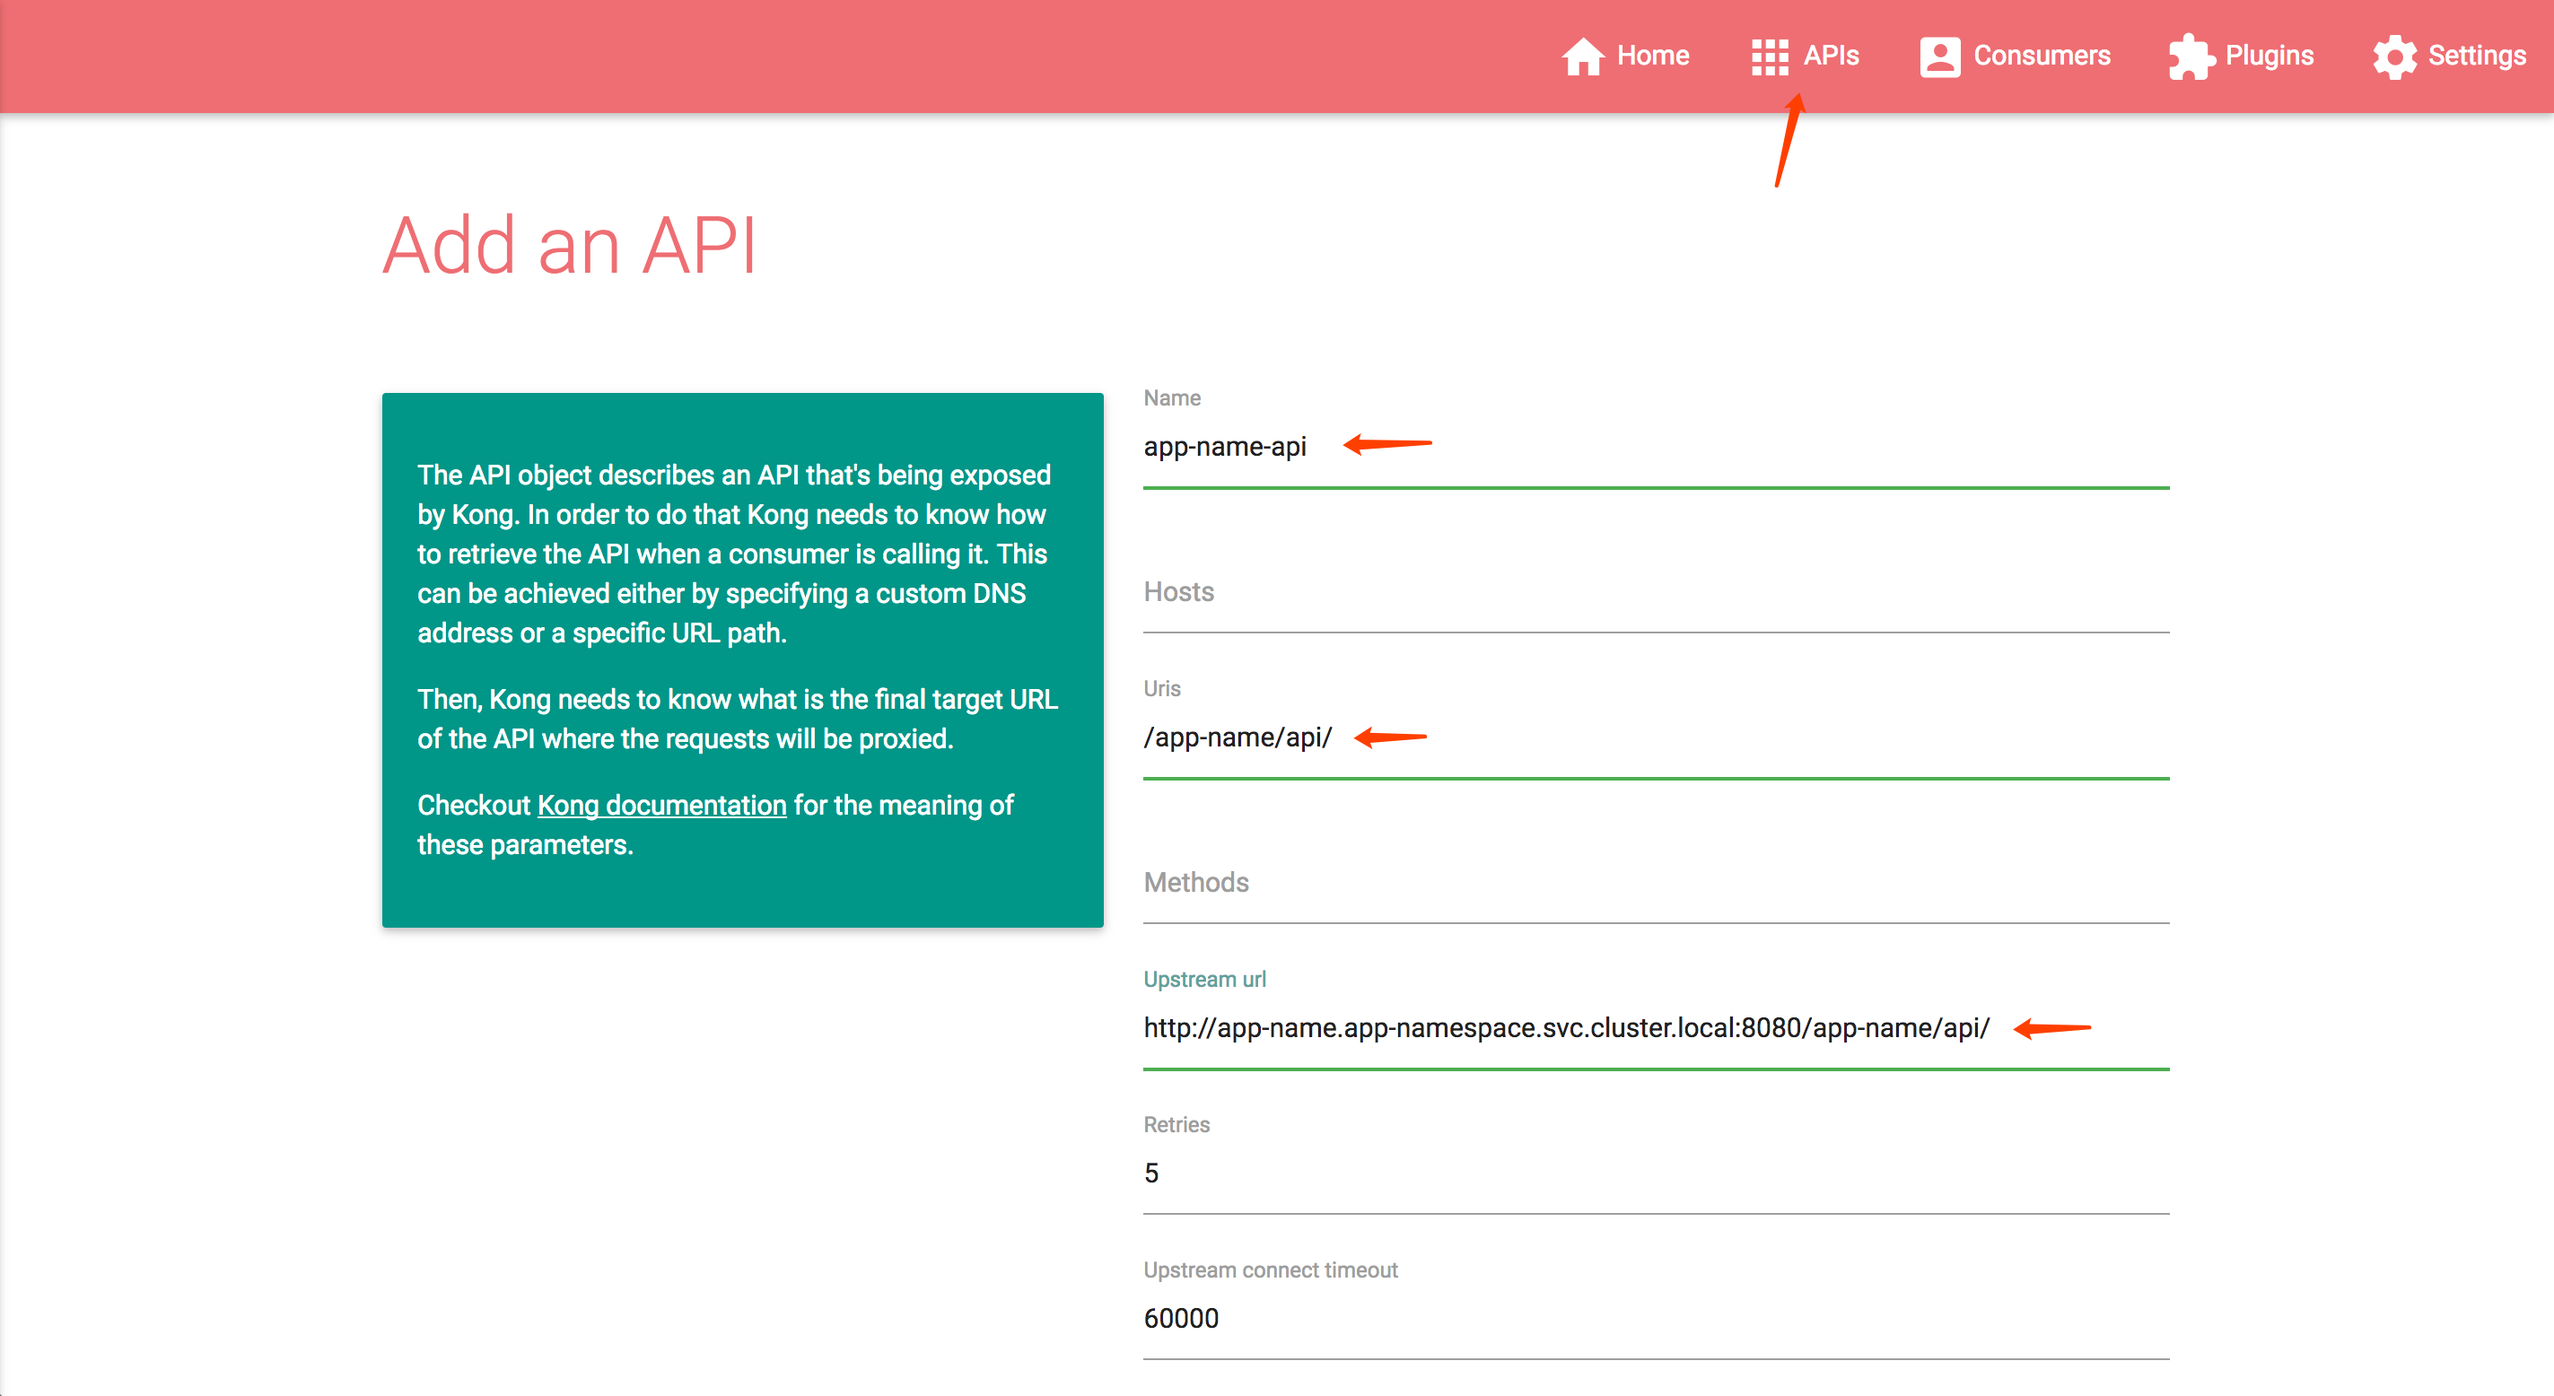
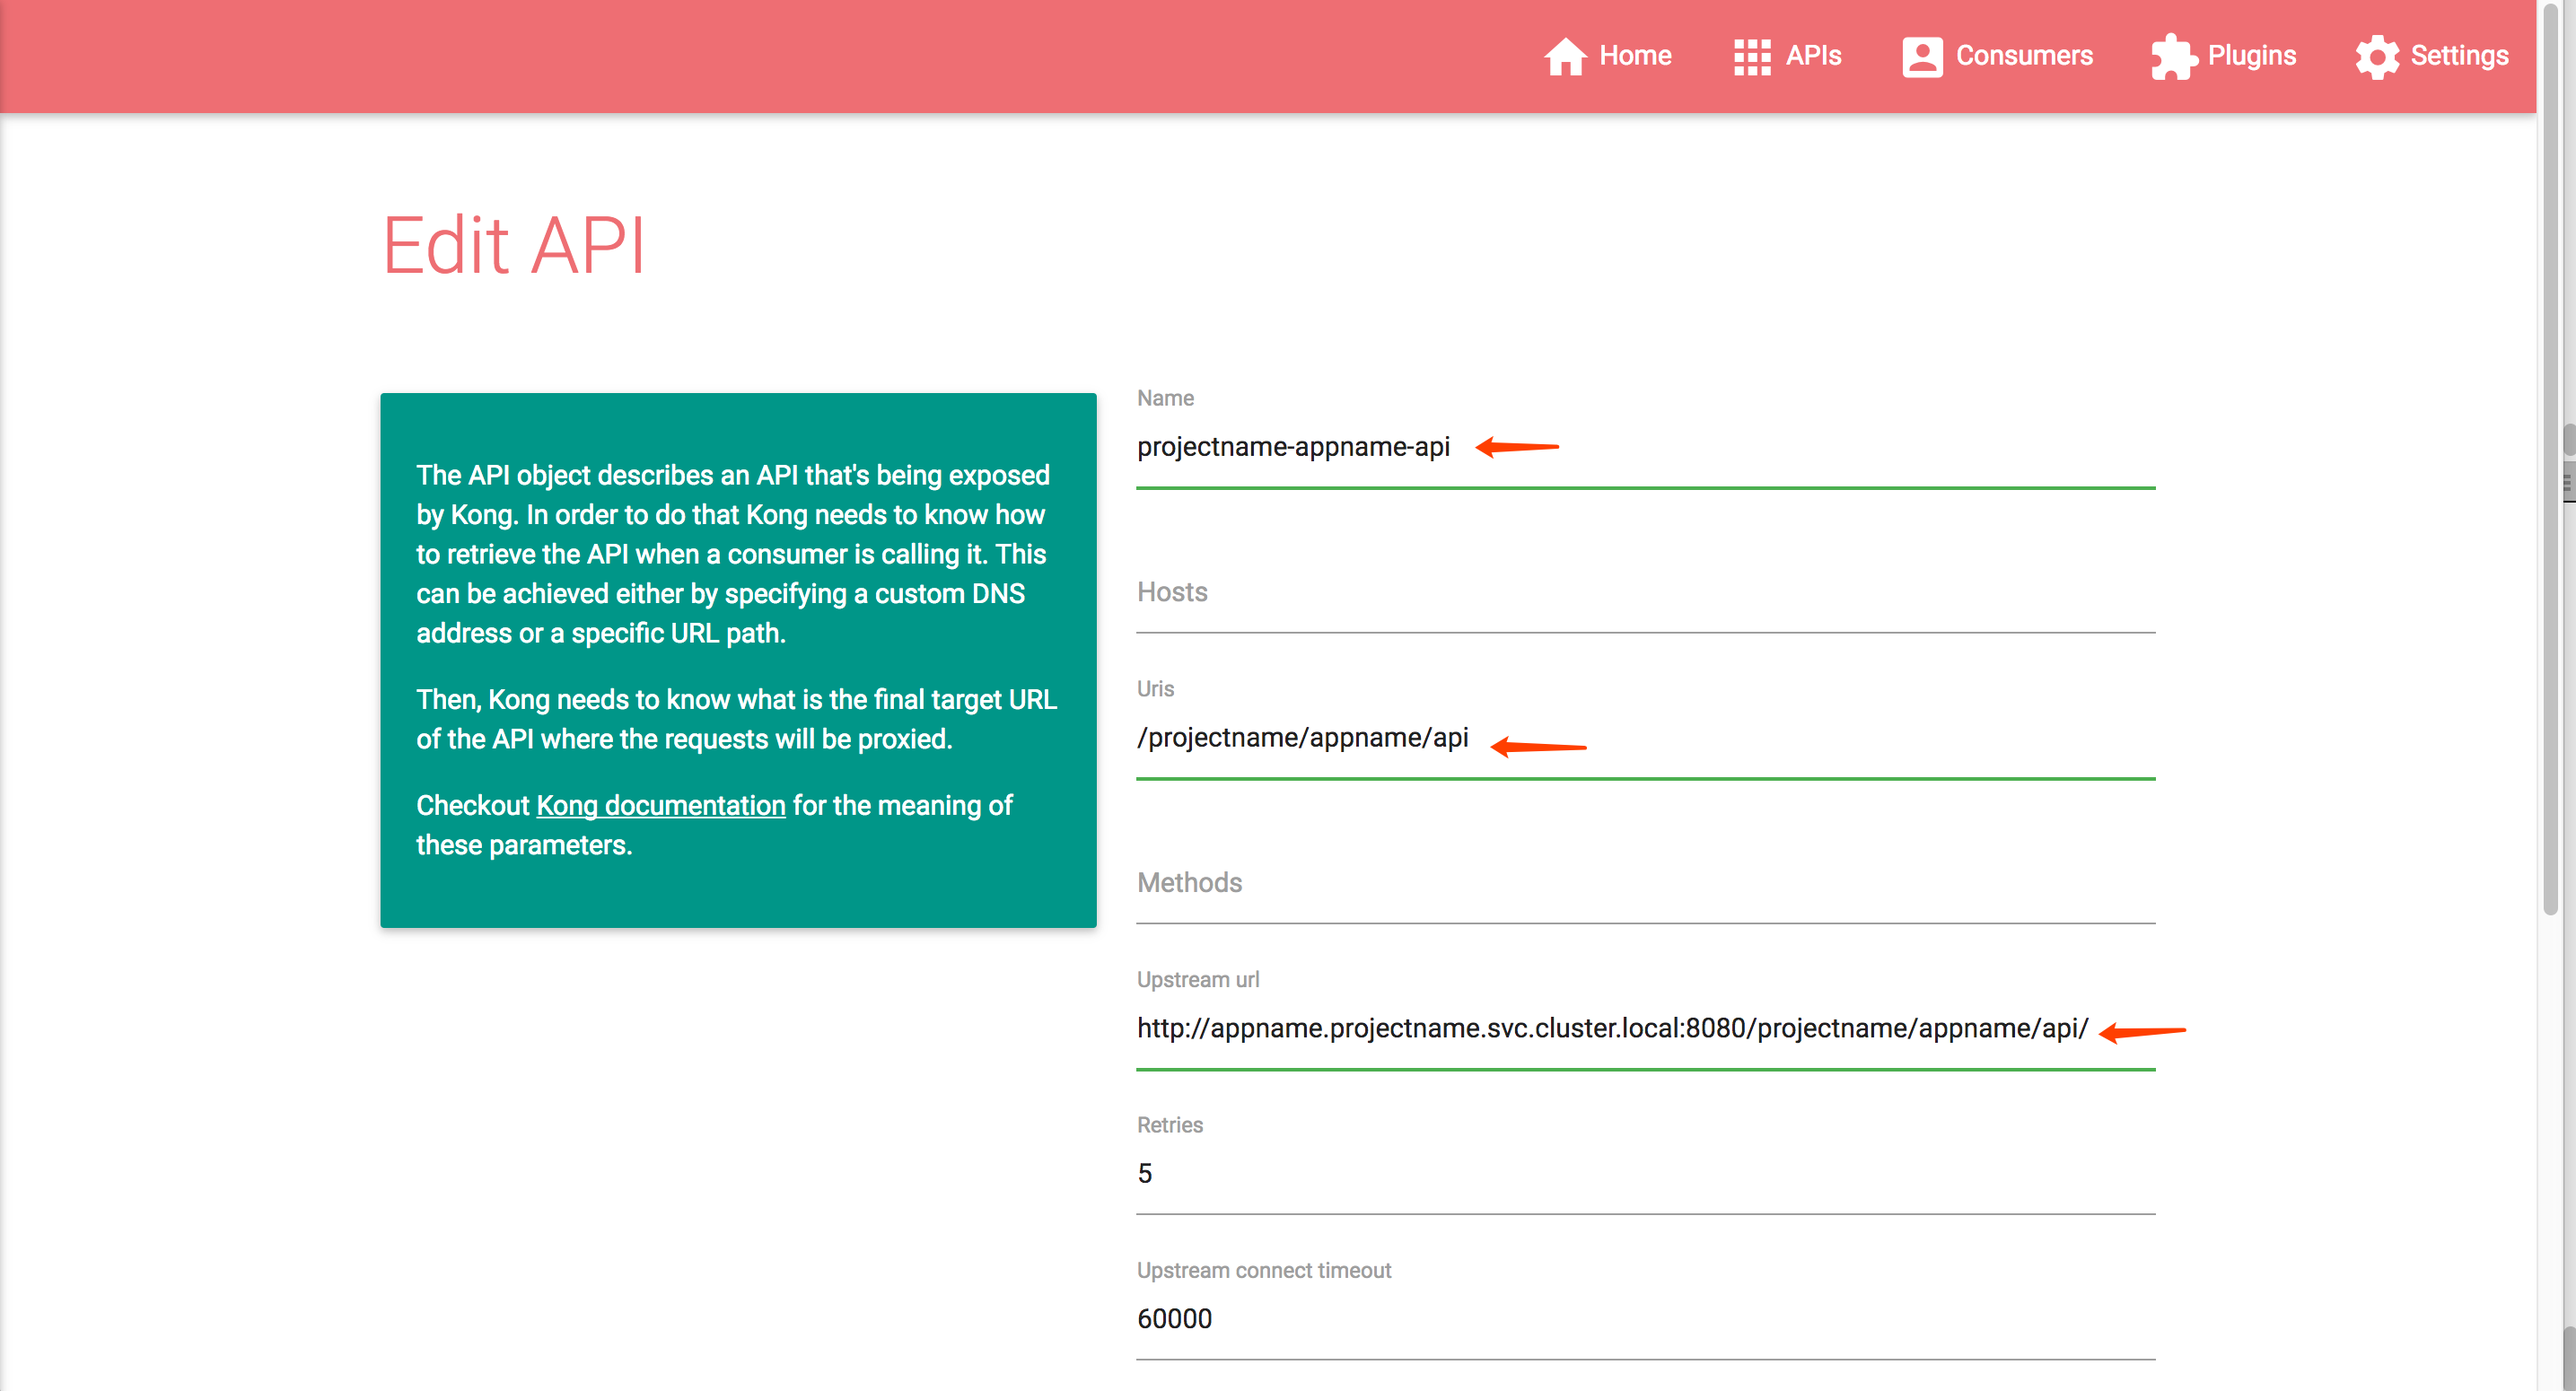
added gateway api check doc

diff --git a/README.md b/README.md
@@ -65,7 +65,7 @@ Kong can easily be provisioned to Openshift cluster using the following steps:
     ![](/assets/kong-deployment.png)
 
 
-    Finally, expose service
+    The last step, expose service
     ```bash
     oc expose svc/kong-dashboard
 
@@ -90,4 +90,16 @@ Kong can easily be provisioned to Openshift cluster using the following steps:
 
     Add API to gateway
 
+    Assume that you've deployed the spring-boot app 'appname' which expose port 8080, then fill below form and proess SAVE button.
+    * Name: project-name-app-name-api
+    * Uris: /project-name/app-name/api/
+    * Upstream url: http://appname.projectname.svc.cluster.local:8080/projectname/appname/api/
+
     ![](/assets/kong-dashboard-add-api.png)
+
+    Now you can check your api 
+    ```bash
+    http http://kong-proxy-gateway-dev.openshift-subdomain.com/projectname/appname/api/health
+    ```
+
+    ![](/assets/http-check-gateway-health.png)
